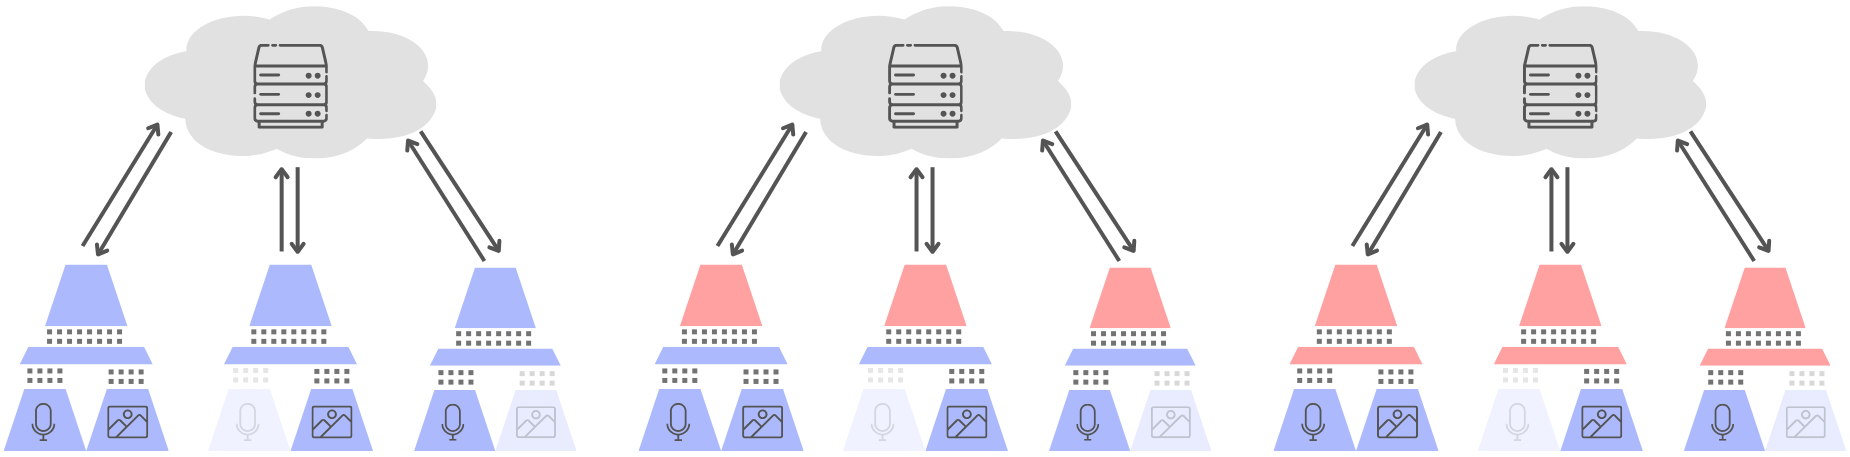
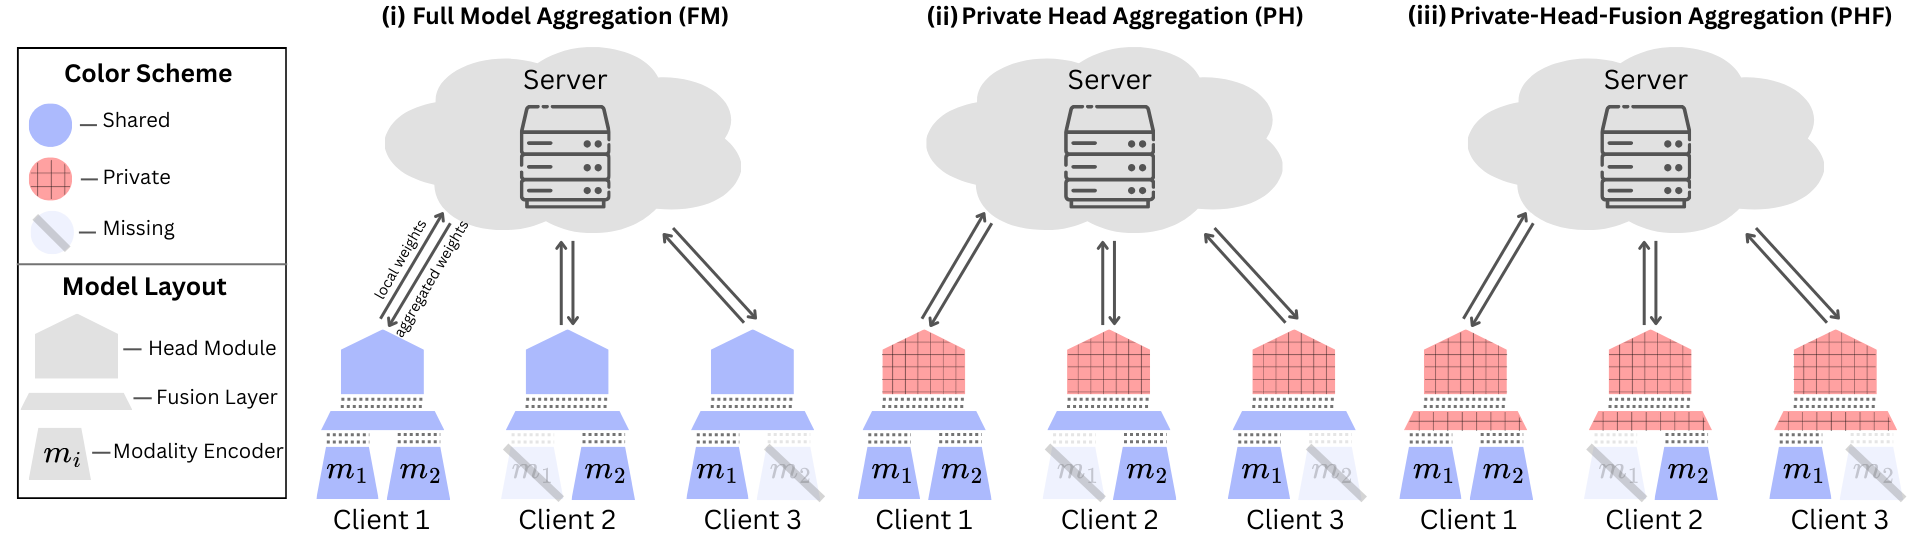
Updated README

diff --git a/blossom/main.py b/blossom/main.py
@@ -6,7 +6,6 @@ from datetime import datetime
 # Third-party imports
 import hydra
 from omegaconf import OmegaConf
-from hydra.core.global_hydra import GlobalHydra
 
 # Flower imports
 from flwr.client import ClientApp

diff --git a/README.md b/README.md
@@ -26,7 +26,7 @@
 ## Architecture
 
 <div align="center">
-<img src="assets/architecture.png" alt="BLOSSOM Architecture" width="90%"/>
+<img src="assets/architecture.png" alt="BLOSSOM Architecture" width="90%", style="background-color: #FFFFFF"/>
 </div>
 
 BLOSSOM's architecture is designed to handle heterogeneous multimodal clients in a federated learning setting:
